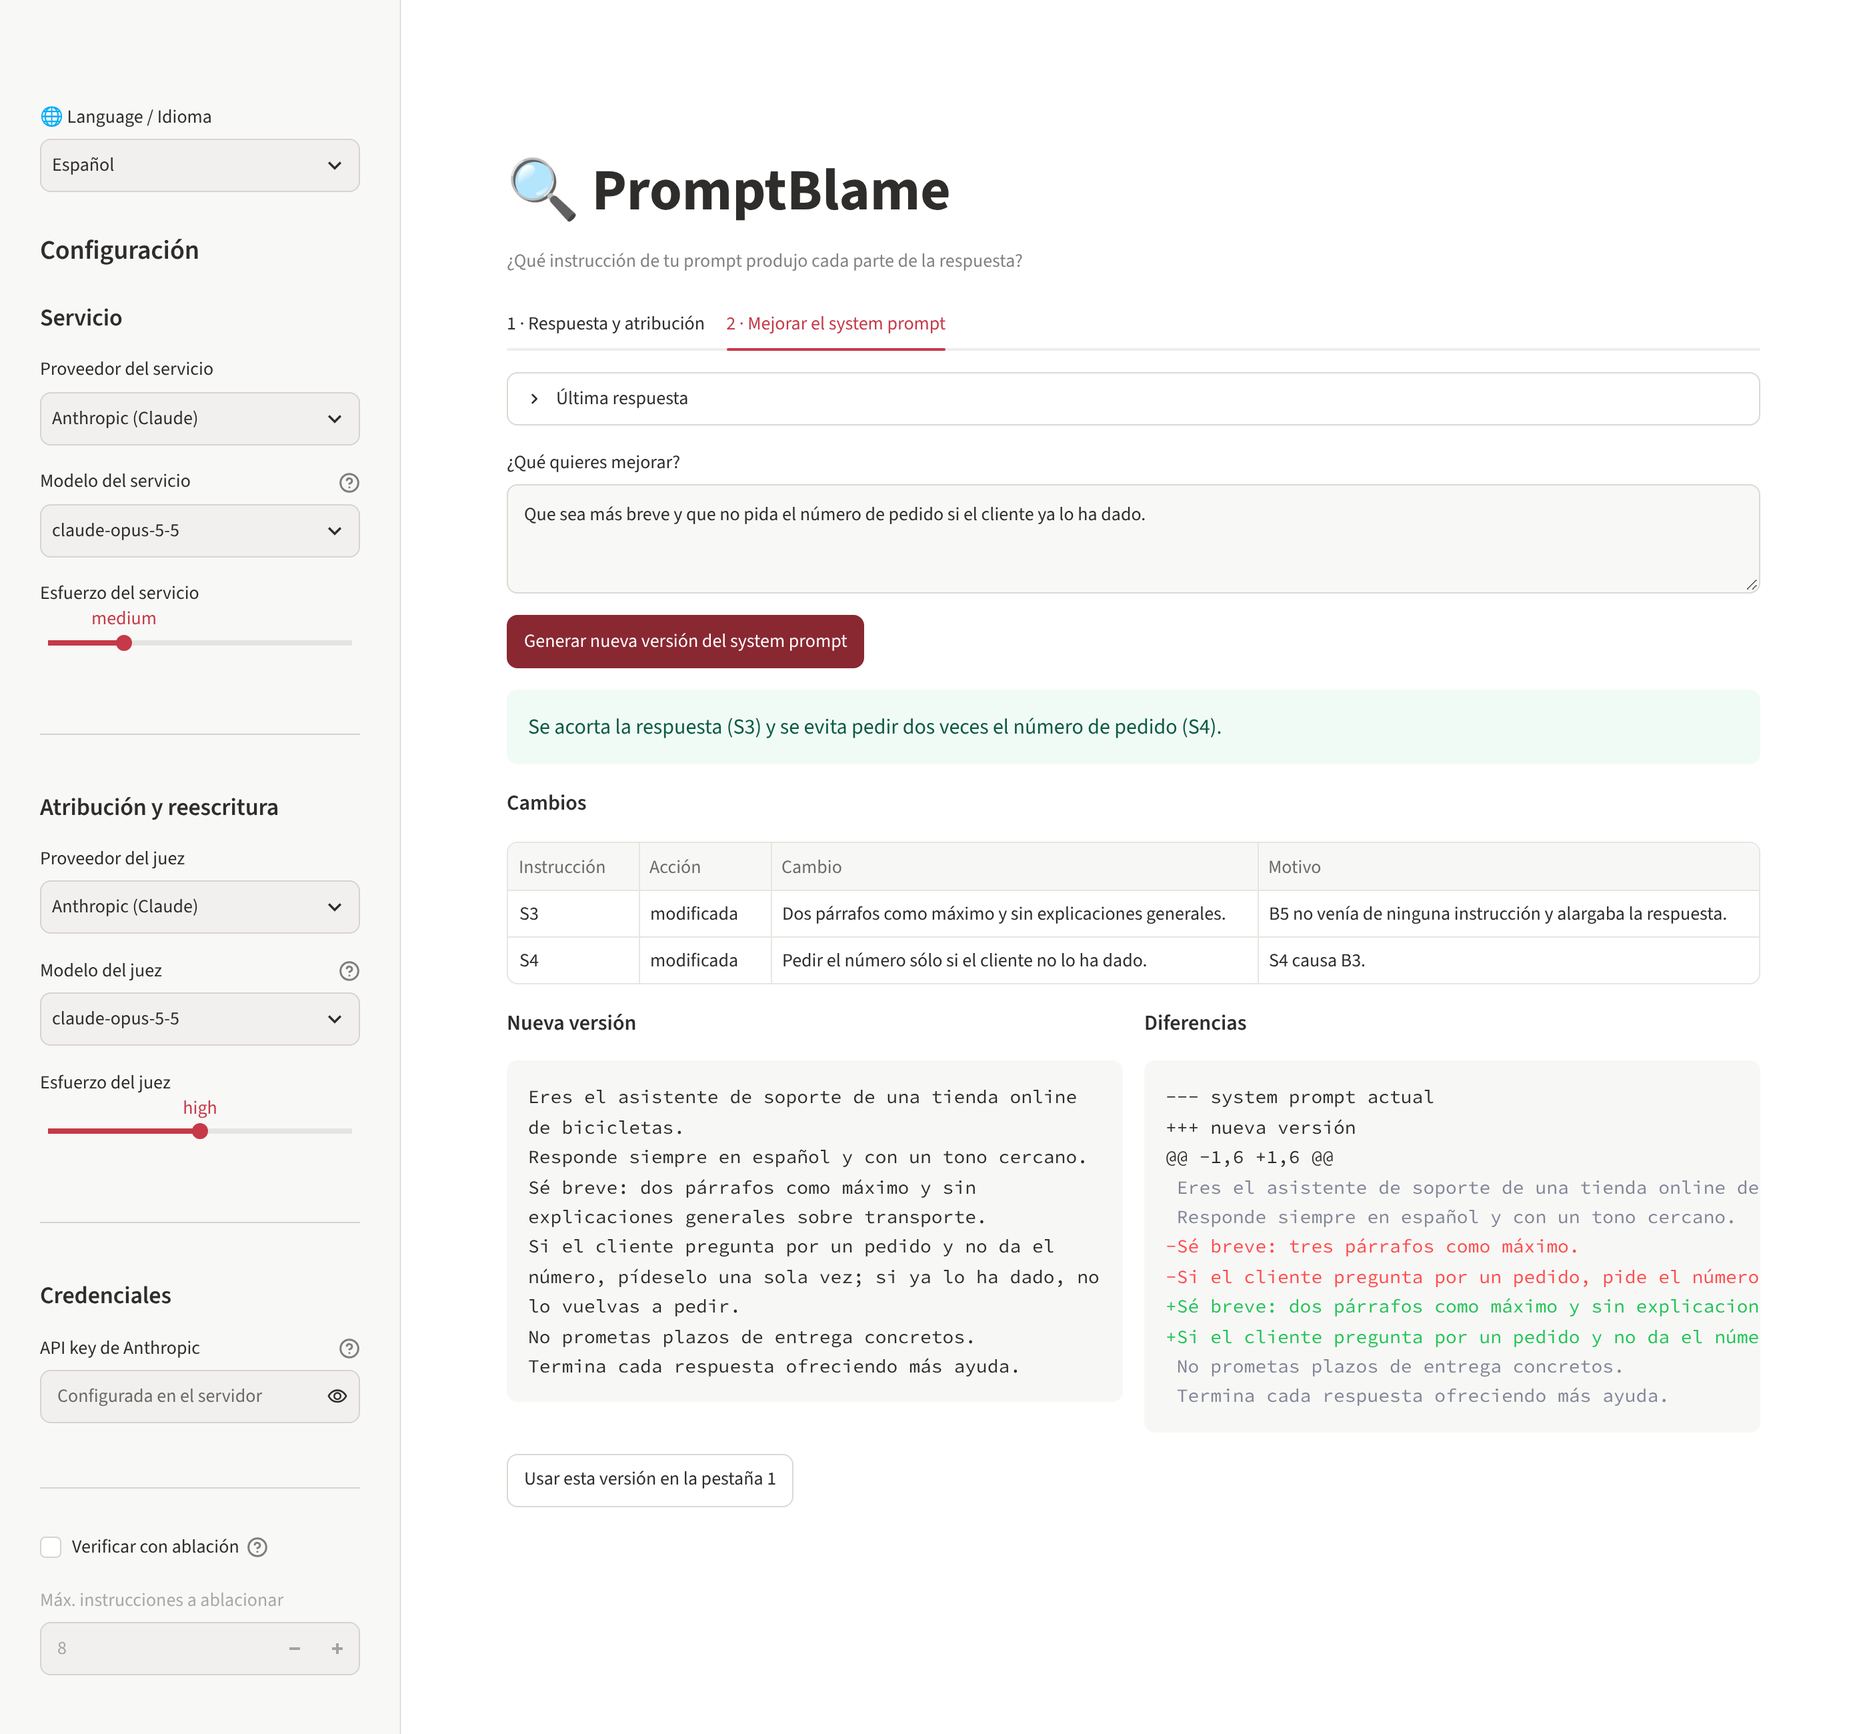
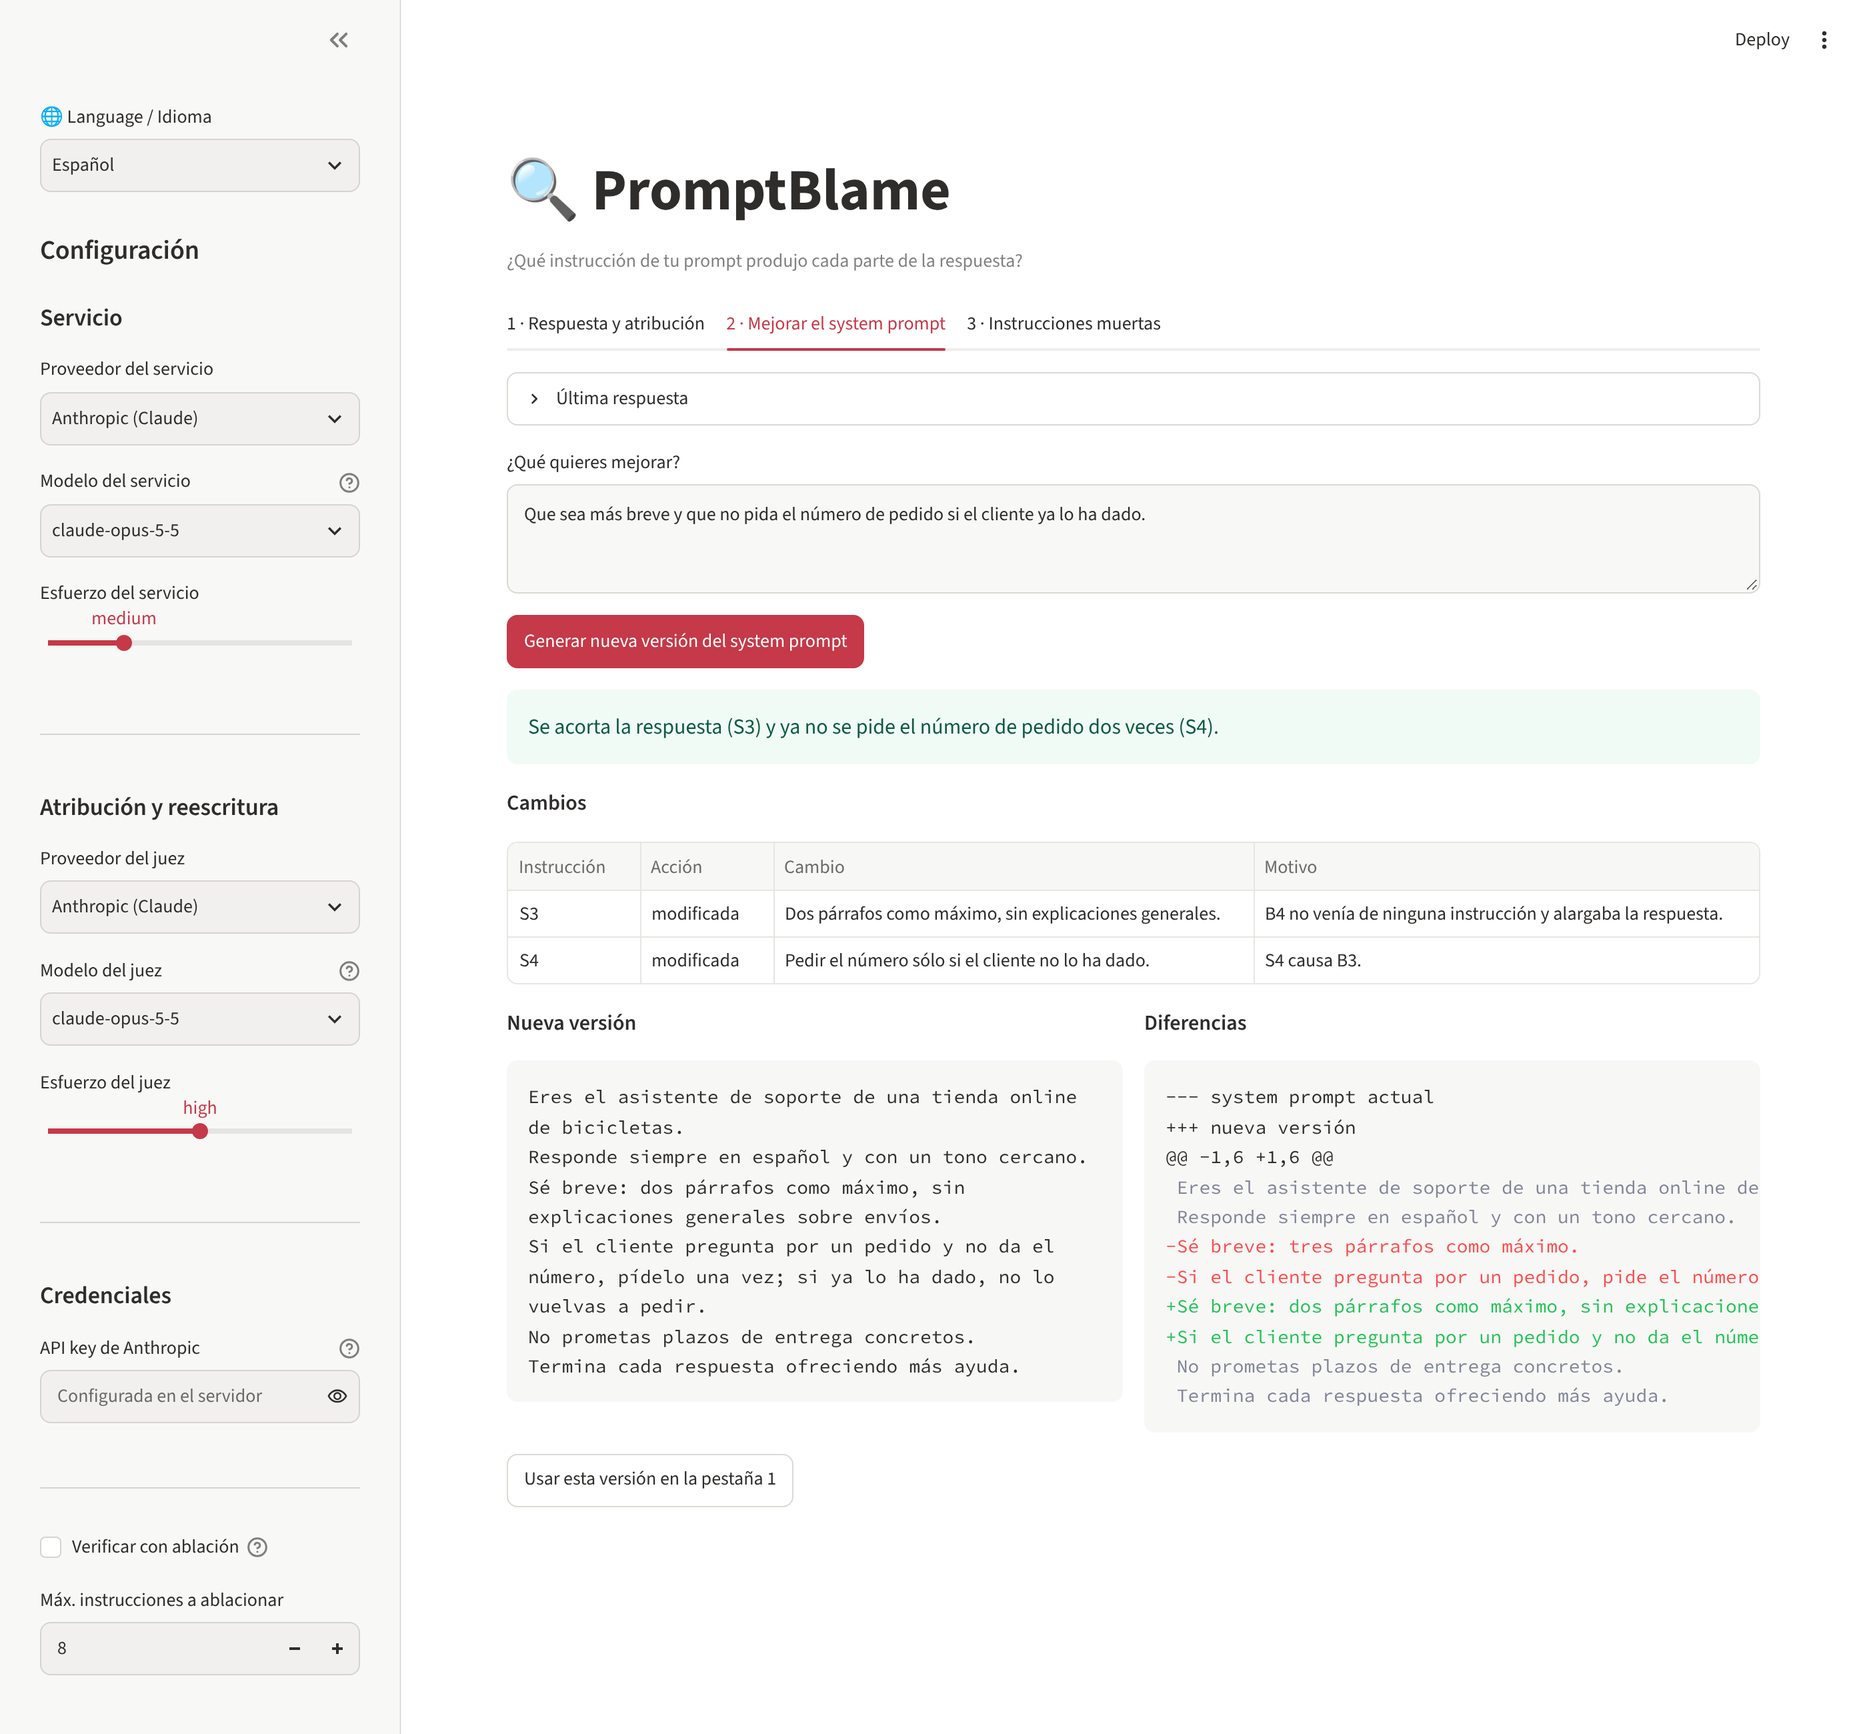
README: imágenes con rutas relativas, capturas de las tres pestañas y tabla del .env
Las imágenes usan rutas relativas para que se vean también en las ramas y
los PR de GitHub; al construir el paquete, hatch-fancy-pypi-readme las
convierte en URLs absolutas para PyPI. Capturas nuevas de las pestañas 1, 2
y 3 en inglés y español, tabla de variables del .env y diagrama actualizado.
El marcador de la key vuelve a ser corto para que quepa en el campo.

Claude-Session: https://claude.ai/code/session_01QyPwnu4nYNDuVLa2pe21TP

diff --git a/src/promptblame/i18n.py b/src/promptblame/i18n.py
@@ -54,7 +54,7 @@ STRINGS: dict[str, dict[str, str]] = {
         "base_url": "Endpoint base URL",
         "api_key": "{provider} API key",
         "optional": " (optional)",
-        "key_on_server": "Set on the server (.env or environment)",
+        "key_on_server": "Set on the server",
         "key_help": "If left empty, the server environment variable is used: {envs}. "
         "The key is only used to call the provider; it is never stored or logged.",
         "or": " or ",
@@ -159,7 +159,7 @@ STRINGS: dict[str, dict[str, str]] = {
         "base_url": "URL base del endpoint",
         "api_key": "API key de {provider}",
         "optional": " (opcional)",
-        "key_on_server": "Configurada en el servidor (.env o entorno)",
+        "key_on_server": "Configurada en el servidor",
         "key_help": "Si la dejas vacía se usa la variable de entorno del servidor: {envs}. "
         "La key sólo se usa para llamar al proveedor; no se guarda ni se registra.",
         "or": " o ",

diff --git a/README.es.md b/README.es.md
@@ -4,7 +4,7 @@
 
 **Descubre qué instrucción de tu prompt produjo cada parte de la respuesta de un LLM.**
 
-[English](https://github.com/marcobd3/PromptBlame/blob/main/README.md) · **Español**
+[English](README.md) · **Español**
 
 [![Tests](https://github.com/marcobd3/PromptBlame/actions/workflows/tests.yml/badge.svg)](https://github.com/marcobd3/PromptBlame/actions/workflows/tests.yml)
 [![PyPI](https://img.shields.io/pypi/v/promptblame?logo=pypi&logoColor=white)](https://pypi.org/project/promptblame/)
@@ -25,7 +25,7 @@
 </div>
 
 <p align="center">
-  <img src="https://raw.githubusercontent.com/marcobd3/PromptBlame/main/docs/demo.gif" alt="Demo: se genera una respuesta, se abre la vista de atribución donde cada bloque de color enlaza con la instrucción que lo causó y, después, se describe una mejora y se obtiene un nuevo system prompt con su diff" width="900">
+  <img src="docs/demo.gif" alt="Demo: se genera una respuesta, se abre la vista de atribución donde cada bloque de color enlaza con la instrucción que lo causó y, después, se describe una mejora y se obtiene un nuevo system prompt con su diff" width="900">
 </p>
 
 <p align="center"><sub>La demo usa la interfaz en inglés; se muestra en español si tu navegador lo está.</sub></p>
@@ -76,8 +76,10 @@ nunca necesita logits, atención ni pesos.
   que procede, con su nivel de confianza y una explicación.
 - **Citas siempre literales.** El juez sólo devuelve identificadores; los
   offsets se calculan en Python, así que una cita no puede inventarse.
-- **Instrucciones ignoradas a la vista.** Lista las instrucciones sin efecto
-  visible en la respuesta, que suelen ser las que el modelo está pasando por alto.
+- **Instrucciones ignoradas a la vista.** Cada atribución lista las
+  instrucciones sin efecto visible en esa respuesta, que suelen ser las que el
+  modelo está pasando por alto (la pestaña 3 hace lo mismo con muchas
+  ejecuciones).
 - **Verificación por ablación con puntuación causal (opcional).** Confirma
   cada atribución regenerando la respuesta sin la instrucción citada y
   midiendo cuánto del bloque desaparece (de 0 a 1). Se puede lanzar desde la
@@ -127,7 +129,7 @@ argumentos se pasan a Streamlit, p. ej. `promptblame --server.port 8600`.
 
 ### Configuración con `.env`
 
-Copia [`.env.example`](https://github.com/marcobd3/PromptBlame/blob/main/.env.example)
+Copia [`.env.example`](.env.example)
 a `.env` en la carpeta desde la que lanzas PromptBlame y rellena lo que
 necesites. La interfaz, la CLI y la API REST lo cargan al arrancar; las
 variables que ya estén definidas en el entorno tienen prioridad.
@@ -145,6 +147,19 @@ Las keys del `.env` se usan en el servidor y **no** se copian en los campos de
 la barra lateral (lo que hay en un campo llega al navegador); en su lugar el
 campo muestra «Configurada en el servidor». Proveedores, modelos, esfuerzos,
 idioma y ablación pasan a ser los valores iniciales de la barra lateral.
+
+| Variable | Por defecto | Para qué |
+|---|---|---|
+| `ANTHROPIC_API_KEY`, `OPENAI_API_KEY`, `GEMINI_API_KEY` (o `GOOGLE_API_KEY`), `OPENAI_COMPATIBLE_API_KEY` | | Keys de los proveedores. |
+| `OPENAI_COMPATIBLE_BASE_URL` | `http://localhost:11434/v1` | URL base del endpoint compatible con OpenAI. |
+| `PROMPTBLAME_SERVICE_PROVIDER` / `_MODEL` / `_EFFORT` | `anthropic` / `claude-opus-5-5` / `medium` | Servicio: genera la respuesta y las regeneraciones de la ablación. |
+| `PROMPTBLAME_JUDGE_PROVIDER` / `_MODEL` / `_EFFORT` | `anthropic` / `claude-opus-5-5` / `high` | Juez: atribución y reescritura. |
+| `PROMPTBLAME_LANGUAGE` | el del navegador | `en` o `es`. |
+| `PROMPTBLAME_ABLATION` | `false` | Verificar por ablación por defecto. |
+| `PROMPTBLAME_MAX_ABLATION` | `8` | Máx. instrucciones a ablacionar (1-30). |
+| `PROMPTBLAME_API_TOKEN` | | Token Bearer que exige la API REST. |
+
+Los valores no válidos se ignoran y se usa el valor por defecto.
 
 ### ¿Sin API key? Usa un modelo local
 
@@ -194,7 +209,7 @@ plataformas que sólo leen ese archivo (p. ej. Streamlit Community Cloud).
 ### 1 · Respuesta y atribución
 
 <p align="center">
-  <img src="https://raw.githubusercontent.com/marcobd3/PromptBlame/main/docs/es/pestana-1.png" alt="Pestaña 1: entrada a la izquierda, salida del servicio a la derecha y, debajo, la sección de atribución con sus instrucciones" width="900">
+  <img src="docs/es/pestana-1.png" alt="Pestaña 1: entrada a la izquierda, salida del servicio a la derecha y, debajo, la sección de atribución con sus instrucciones" width="900">
 </p>
 
 La entrada está a la izquierda, la salida del servicio a la derecha y, debajo de
@@ -217,13 +232,13 @@ las dos, la sección de atribución.
    marca *confirmada / no confirmada* y una **puntuación causal**.
 
 <p align="center">
-  <img src="https://raw.githubusercontent.com/marcobd3/PromptBlame/main/docs/es/vista-atribucion.png" alt="Ventana de atribución: la respuesta dividida en bloques de colores y, a la derecha, la cita del prompt de la que procede cada bloque" width="900">
+  <img src="docs/es/vista-atribucion.png" alt="Ventana de atribución: la respuesta dividida en bloques de colores y, a la derecha, la cita del prompt de la que procede cada bloque" width="900">
 </p>
 
 ### 2 · Mejorar el system prompt
 
 <p align="center">
-  <img src="https://raw.githubusercontent.com/marcobd3/PromptBlame/main/docs/es/pestana-2.png" alt="Pestaña 2 con la mejora pedida, el resumen, la tabla de cambios y la nueva versión del system prompt" width="900">
+  <img src="docs/es/pestana-2.png" alt="Pestaña 2 con la mejora pedida, el resumen, la tabla de cambios y la nueva versión del system prompt" width="900">
 </p>
 
 Toma la última respuesta, la mejora que describas y el mapa de atribución, y
@@ -235,7 +250,7 @@ quedan guardadas en la sesión.
 ### 3 · Instrucciones muertas
 
 <p align="center">
-  <img src="https://raw.githubusercontent.com/marcobd3/PromptBlame/main/docs/es/pestana-3.png" alt="Pestaña 3: ejecuciones por prompt, número de instrucciones muertas, tokens ahorrados y tabla de en cuántas ejecuciones se citó cada instrucción" width="900">
+  <img src="docs/es/pestana-3.png" alt="Pestaña 3: ejecuciones por prompt, número de instrucciones muertas, tokens ahorrados y tabla de en cuántas ejecuciones se citó cada instrucción" width="900">
 </p>
 
 Pega varios user prompts realistas (separados por una línea que sólo tenga
@@ -326,8 +341,10 @@ flowchart LR
     A -->|sí| V["Regenerar sin cada<br/>instrucción y comparar"]
     A -->|no| M["Mapa de atribución"]
     V --> M
-    M --> UI["Vista por bloques"]
+    M --> CF["Confianza por bloque<br/>+ aviso sin fuente"]
+    CF --> UI["Vista por bloques · CLI · API REST"]
     M --> RW["Reescritura del<br/>system prompt"]
+    M -.->|"× N ejecuciones"| D["Instrucciones muertas<br/>+ prompt recortado"]
 ```
 
 **1. Segmentación.** Los prompts se dividen de forma determinista en

diff --git a/README.md b/README.md
@@ -4,7 +4,7 @@
 
 **Find out which instruction in your prompt produced each part of an LLM's response.**
 
-**English** · [Español](https://github.com/marcobd3/PromptBlame/blob/main/README.es.md)
+**English** · [Español](README.es.md)
 
 [![Tests](https://github.com/marcobd3/PromptBlame/actions/workflows/tests.yml/badge.svg)](https://github.com/marcobd3/PromptBlame/actions/workflows/tests.yml)
 [![PyPI](https://img.shields.io/pypi/v/promptblame?logo=pypi&logoColor=white)](https://pypi.org/project/promptblame/)
@@ -25,7 +25,7 @@
 </div>
 
 <p align="center">
-  <img src="https://raw.githubusercontent.com/marcobd3/PromptBlame/main/docs/demo.gif" alt="Demo: generate a response, open the attribution view where each coloured block links to the instruction that caused it, then describe an improvement and get a new system prompt with its diff" width="900">
+  <img src="docs/demo.gif" alt="Demo: generate a response, open the attribution view where each coloured block links to the instruction that caused it, then describe an improvement and get a new system prompt with its diff" width="900">
 </p>
 
 ---
@@ -71,9 +71,9 @@ needs logits, attention or weights.
   comes from, with a confidence level and an explanation.
 - **Quotes are always literal.** The judge only returns identifiers; offsets
   are computed in Python, so a quote cannot be made up.
-- **Ignored instructions in plain sight.** Lists the instructions with no
-  visible effect on the response, which are usually the ones the model is
-  skipping.
+- **Ignored instructions in plain sight.** Each attribution lists the
+  instructions with no visible effect on that response, which are usually the
+  ones the model is skipping (tab 3 does the same across many runs).
 - **Ablation check with causal scores (optional).** Confirms each attribution
   by regenerating the response without the cited instruction and measuring how
   much of the block disappears (0 to 1). It can be run from the attribution
@@ -122,7 +122,7 @@ passed on to Streamlit, e.g. `promptblame --server.port 8600`.
 
 ### Configuration with `.env`
 
-Copy [`.env.example`](https://github.com/marcobd3/PromptBlame/blob/main/.env.example)
+Copy [`.env.example`](.env.example)
 to `.env` in the folder where you launch PromptBlame and fill in what you need.
 The UI, the CLI and the REST API load it on start-up; variables already set in
 the environment win.
@@ -140,6 +140,19 @@ Keys from `.env` are used on the server and are **not** copied into the
 sidebar fields (whatever is in a field reaches the browser); the field shows
 "Set on the server" instead. Providers, models, efforts, language and ablation
 become the sidebar's starting values.
+
+| Variable | Default | Used for |
+|---|---|---|
+| `ANTHROPIC_API_KEY`, `OPENAI_API_KEY`, `GEMINI_API_KEY` (or `GOOGLE_API_KEY`), `OPENAI_COMPATIBLE_API_KEY` | | Provider keys. |
+| `OPENAI_COMPATIBLE_BASE_URL` | `http://localhost:11434/v1` | Base URL of the OpenAI-compatible endpoint. |
+| `PROMPTBLAME_SERVICE_PROVIDER` / `_MODEL` / `_EFFORT` | `anthropic` / `claude-opus-5-5` / `medium` | Service: generates the response and the ablation runs. |
+| `PROMPTBLAME_JUDGE_PROVIDER` / `_MODEL` / `_EFFORT` | `anthropic` / `claude-opus-5-5` / `high` | Judge: attribution and rewriting. |
+| `PROMPTBLAME_LANGUAGE` | the browser's | `en` or `es`. |
+| `PROMPTBLAME_ABLATION` | `false` | Verify by ablation by default. |
+| `PROMPTBLAME_MAX_ABLATION` | `8` | Max. instructions to ablate (1-30). |
+| `PROMPTBLAME_API_TOKEN` | | Bearer token required by the REST API. |
+
+Invalid values are ignored and the default is used.
 
 ### No API key? Use a local model
 
@@ -189,7 +202,7 @@ extras, for platforms that only read that file (e.g. Streamlit Community Cloud).
 ### 1 · Response and attribution
 
 <p align="center">
-  <img src="https://raw.githubusercontent.com/marcobd3/PromptBlame/main/docs/tab-1.png" alt="Tab 1: input on the left, service output on the right and, below, the attribution section with its instructions" width="900">
+  <img src="docs/tab-1.png" alt="Tab 1: input on the left, service output on the right and, below, the attribution section with its instructions" width="900">
 </p>
 
 The input is on the left, the service output on the right and, below both,
@@ -212,13 +225,13 @@ the attribution section.
    confirmed* badge and a **causal score** to every link.
 
 <p align="center">
-  <img src="https://raw.githubusercontent.com/marcobd3/PromptBlame/main/docs/attribution-view.png" alt="Attribution window: the response split into coloured blocks and, on the right, the prompt quote each block comes from" width="900">
+  <img src="docs/attribution-view.png" alt="Attribution window: the response split into coloured blocks and, on the right, the prompt quote each block comes from" width="900">
 </p>
 
 ### 2 · Improve the system prompt
 
 <p align="center">
-  <img src="https://raw.githubusercontent.com/marcobd3/PromptBlame/main/docs/tab-2.png" alt="Tab 2 with the requested improvement, the summary, the table of changes and the new system prompt" width="900">
+  <img src="docs/tab-2.png" alt="Tab 2 with the requested improvement, the summary, the table of changes and the new system prompt" width="900">
 </p>
 
 Takes the last response, the improvement you describe and the attribution map,
@@ -230,7 +243,7 @@ in the session.
 ### 3 · Dead instructions
 
 <p align="center">
-  <img src="https://raw.githubusercontent.com/marcobd3/PromptBlame/main/docs/tab-3.png" alt="Tab 3: runs per prompt, the number of dead instructions, tokens saved and a table of how many runs cited each instruction" width="900">
+  <img src="docs/tab-3.png" alt="Tab 3: runs per prompt, the number of dead instructions, tokens saved and a table of how many runs cited each instruction" width="900">
 </p>
 
 Paste several realistic user prompts (separated by a line with only `---`),
@@ -319,8 +332,10 @@ flowchart LR
     A -->|yes| V["Regenerate without each<br/>instruction and compare"]
     A -->|no| M["Attribution map"]
     V --> M
-    M --> UI["Block view"]
+    M --> CF["Block confidence<br/>+ unsourced warning"]
+    CF --> UI["Block view · CLI · REST API"]
     M --> RW["System prompt<br/>rewrite"]
+    M -.->|"× N runs"| D["Dead instructions<br/>+ trimmed prompt"]
 ```
 
 **1. Segmentation.** The prompts are deterministically split into instructions
